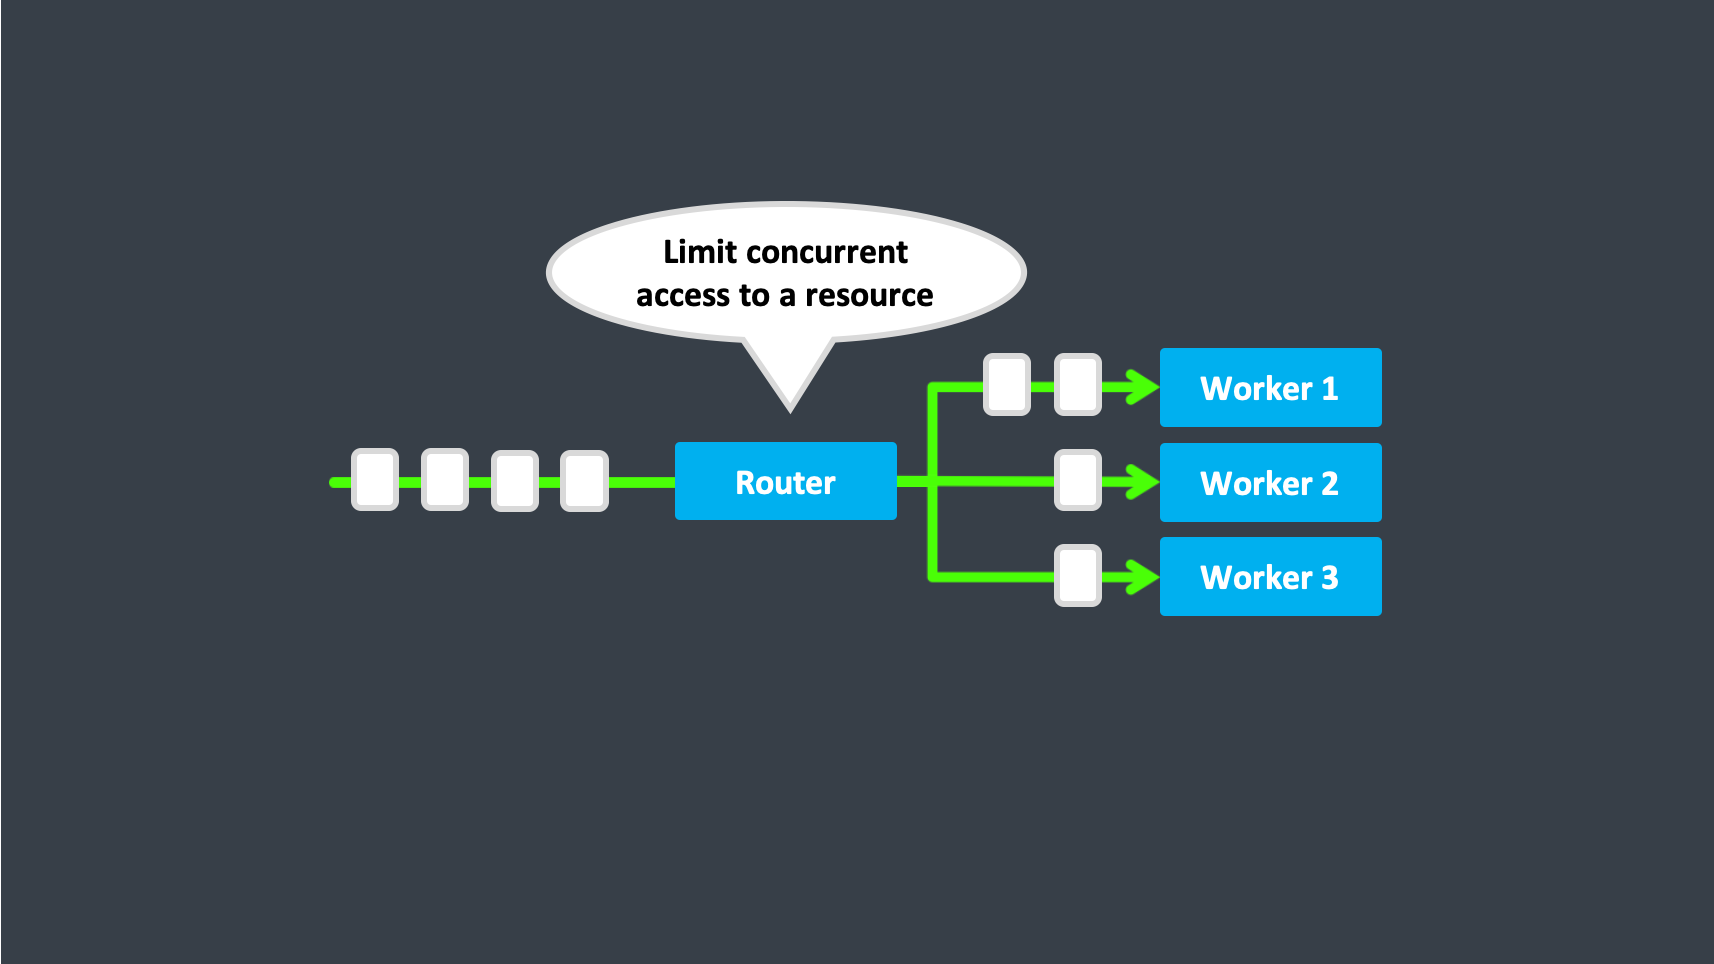
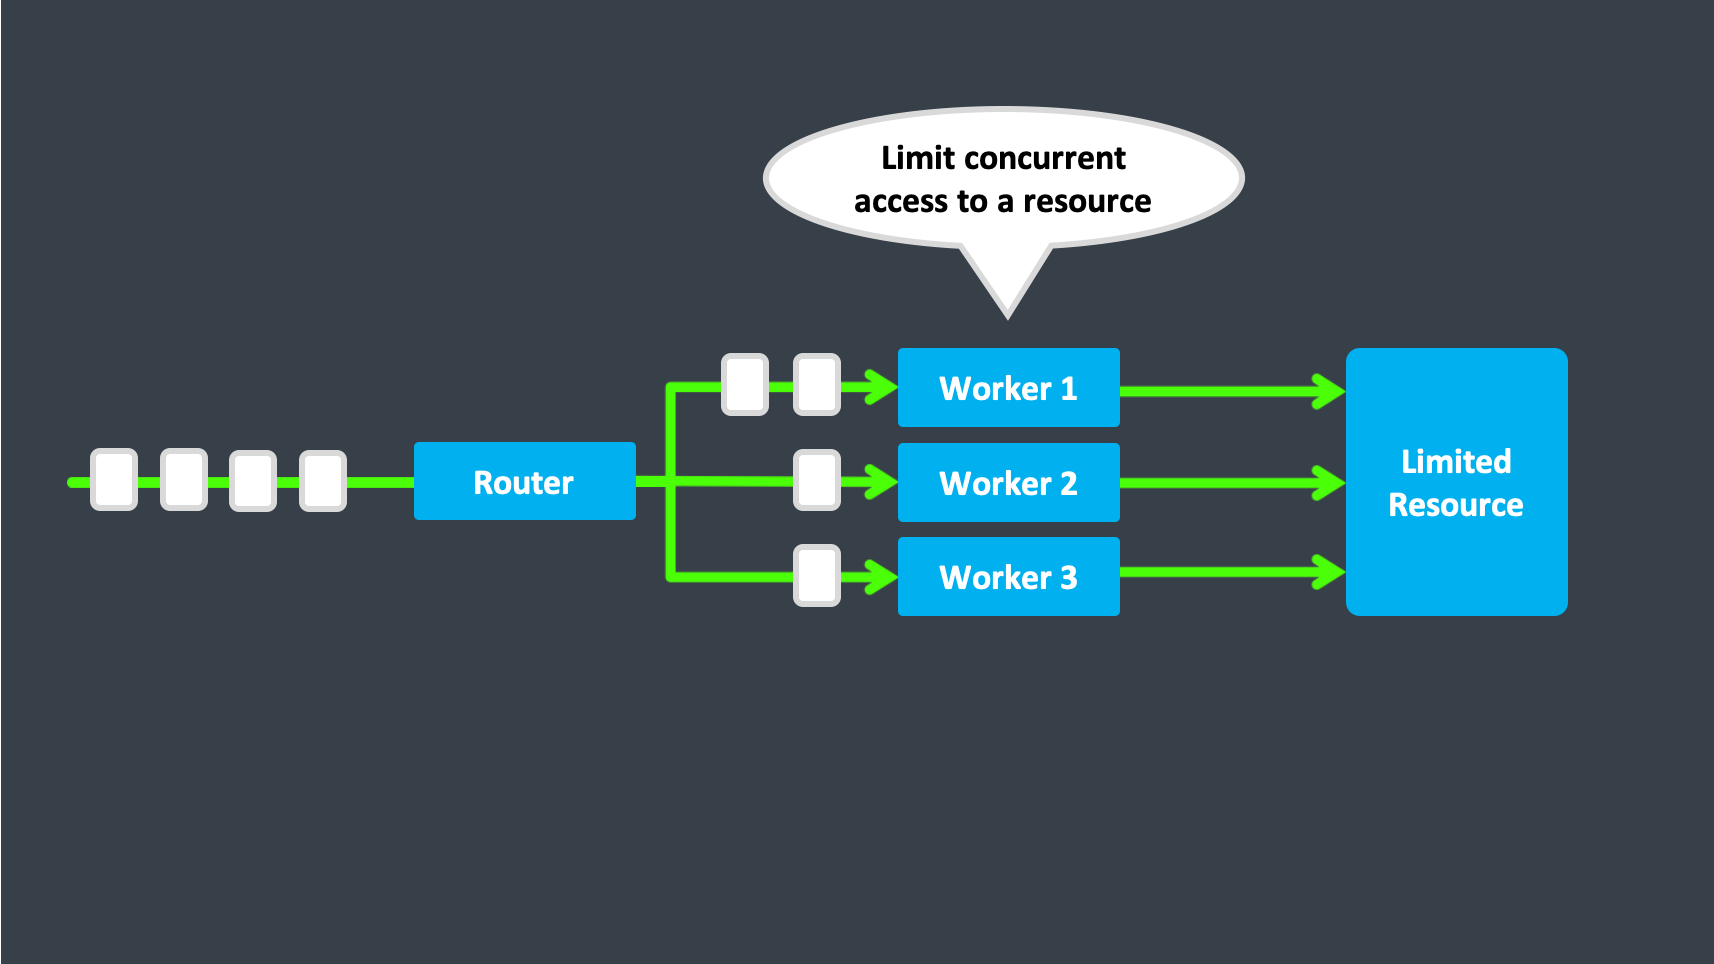
.

Changed region(s): [[0.0309, 0.0934, 0.9277, 0.6535]]

diff --git a/asynkron/content/docs/proto.actor/limit-concurrency.md b/asynkron/content/docs/proto.actor/limit-concurrency.md
@@ -1,0 +1,15 @@
+
+# Limit Concurrency
+
+In some scenarios, it can be useful to be able to limit the number of parallel interactions with some resource.
+
+e.g. there might be some 3rd party service which cannot handle more than X simultaneous requests for whatever reasons, be it technical or legal.
+
+In those cases, you can use a round-robin router to address this.
+
+![Limit Concurrency](images/limit-concurrency.png)
+
+As seen in the image above, we use a round-robin router to forward messages to, in this case, three worker actors.
+These worker actors can then interact with the limited resource/service.
+
+Because actors process one message at a time, we can guarantee that there will never be more than (in this case) three parallel requests to the limited resource/service.

diff --git a/asynkron/content/docs/proto.actor/books.md b/asynkron/content/docs/proto.actor/books.md
@@ -8,7 +8,7 @@ tags: [protoactor, docs]
 # Related material
 
 ##  Manning Publications Co.
-* [Reactive Applications with Akka.NET](https://www.manning.com/books/reactive-applications-with-akka-net)
+
 * [Akka in action](http://www.manning.com/roestenburg/)
 * [Functional and Reactive Domain Modeling](http://www.manning.com/ghosh2/)
 * [Functional Reactive Programming](http://www.manning.com/blackheath/)

diff --git a/asynkron/content/docs/proto.actor/_index.md b/asynkron/content/docs/proto.actor/_index.md
@@ -37,6 +37,12 @@ tags: [protoactor, docs]
 * [Cluster](cluster.md)
 * [SimpleScheduler](scheduling.md)
 
+## Useful Patterns
+
+* [Message Throttling](throttling.md)
+* [Work Pulling Pattern](work-pulling.md)
+* [Limit Concurrency](limit-concurrency.md)
+
 ## Additional Information
 
 * [Books](books.md)

diff --git a/asynkron/content/docs/proto.actor/remote.md b/asynkron/content/docs/proto.actor/remote.md
@@ -1,1 +1,4 @@
-//TODO
+# Proto.Remote
+
+Scale out your actor systems over network using gRPC streaming.
+

diff --git a/asynkron/content/docs/proto.actor/props.md b/asynkron/content/docs/proto.actor/props.md
@@ -1,0 +1,2 @@
+# Props
+
